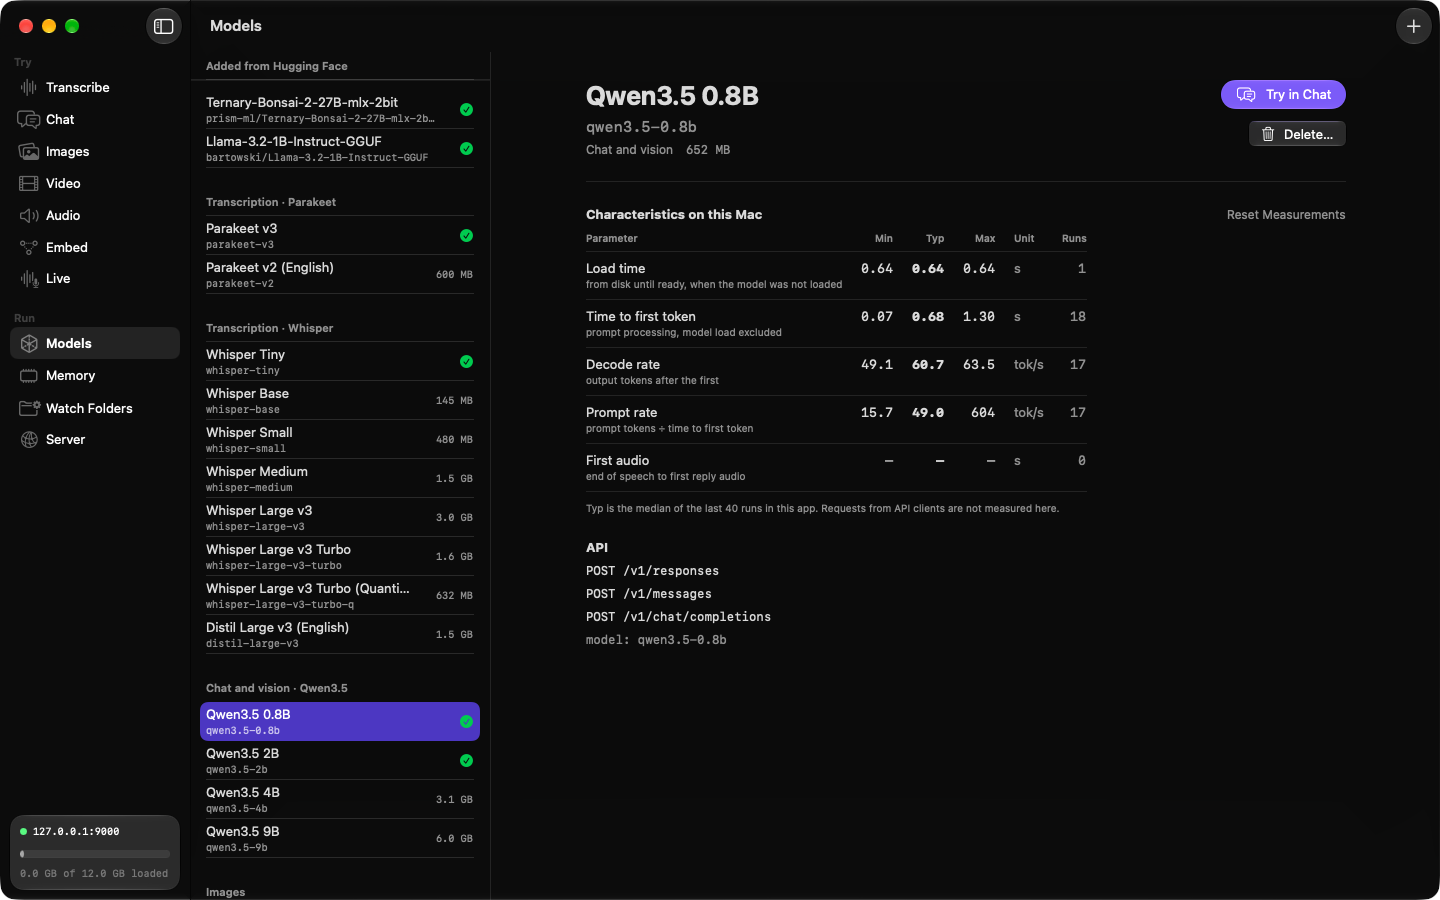
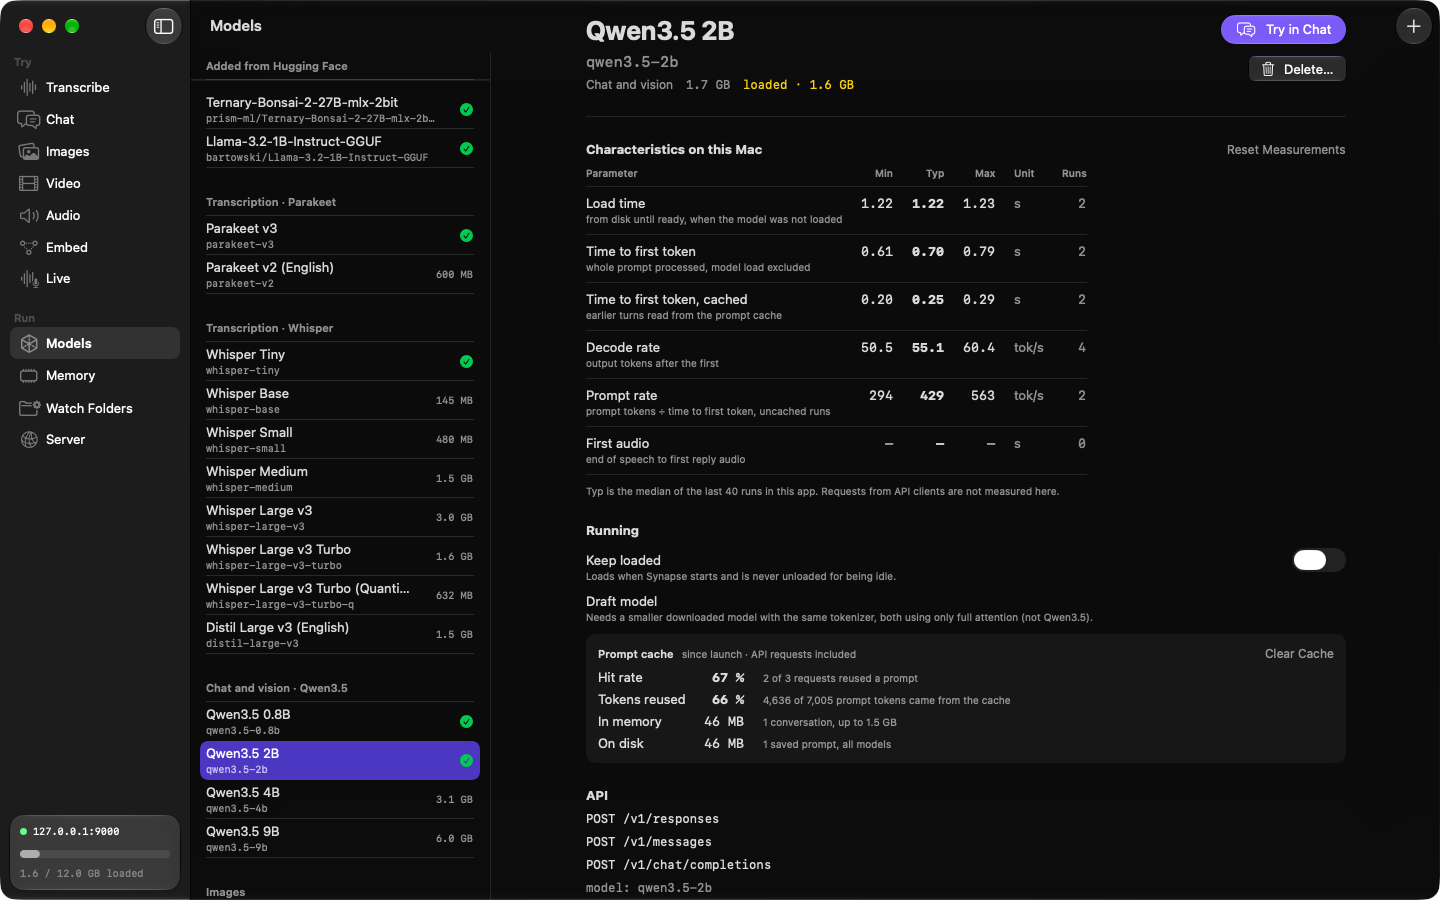
README screenshots for prompt caching, history and memory; Video shows saved clips without a model
New gallery row: Chat with its History list (follow-ups reading 428 of 464
tokens from the cache) and the Memory pane with per-model prompt caches and
prompts saved to disk. The Models shot now shows the Running section and
first token uncached (0.70 s) against cached (0.25 s) on Qwen3.5 2B. All
three are real runs on the 16 GB Mac mini.

The Video pane hid saved clips behind "No video models" when no video model
was downloaded; it now shows them. README, TODO and the docs say mlx-vlm's
prefix cache is on only with 32 GB or more.

DEBUG capture arguments: several prompts in -autoSendPrompt (" || "),
-datasheetScrollTo, and -openFirstHistory reopening the list; -deleteFirstHistory
now deletes once per launch.

Checked in the app this round: Audio, Embed, Transcribe, Video and Transform
save to history, come back after relaunch, and delete.

Claude-Session: https://claude.ai/code/session_01Uyg6u63u5LHD8ihTKJECWa

diff --git a/Synapse/Design/HistoryList.swift b/Synapse/Design/HistoryList.swift
@@ -21,12 +21,20 @@ struct HistoryButton: View {
                 guard UserDefaults.standard.string(forKey: "openHistory") == kind.rawValue else { return }
                 try? await Task.sleep(for: .seconds(1))
                 showing = true
+                // With -openFirstHistory the list opens the newest item and closes; show it again over the result.
+                guard UserDefaults.standard.bool(forKey: "openFirstHistory") else { return }
+                try? await Task.sleep(for: .seconds(2))
+                showing = true
             }
             #endif
     }
 }
 
 struct HistoryList: View {
+    #if DEBUG
+    @MainActor static var debugDeleted = false
+    @MainActor static var debugOpened = false
+    #endif
     let kind: HistoryKind
     let noun: String
     let open: (HistoryItem) -> Void
@@ -82,11 +90,14 @@ struct HistoryList: View {
             items = await state.history.list(kind)
             #if DEBUG
             // `-openFirstHistory YES` (with `-openHistory`) opens the newest item, to capture a restore.
-            if UserDefaults.standard.bool(forKey: "openFirstHistory"), let first = items.first { open(first) }
+            if UserDefaults.standard.bool(forKey: "openFirstHistory"), !Self.debugOpened, let first = items.first {
+                Self.debugOpened = true
+                open(first)
+            }
             // `-deleteFirstHistory YES` deletes the newest item the way the confirmed Delete does.
-            if UserDefaults.standard.bool(forKey: "deleteFirstHistory"), let first = items.first {
+            if UserDefaults.standard.bool(forKey: "deleteFirstHistory"), !Self.debugDeleted, let first = items.first {
+                Self.debugDeleted = true   // the launch argument stays set, so delete once per launch
                 state.deleteHistory([first.id], kind: kind)
-                UserDefaults.standard.set(false, forKey: "deleteFirstHistory")
             }
             #endif
         }

diff --git a/Synapse/Views/ModelsView.swift b/Synapse/Views/ModelsView.swift
@@ -37,8 +37,18 @@ struct ModelsView: View {
             .frame(width: 300)
             Divider()
             if let spec = selection.flatMap(Catalog.spec) {
-                ScrollView { Datasheet(spec: spec, openPane: openPane, confirmDelete: $confirmDelete).padding(28) }
-                    .frame(maxWidth: .infinity)
+                ScrollViewReader { proxy in
+                    ScrollView { Datasheet(spec: spec, openPane: openPane, confirmDelete: $confirmDelete).padding(28) }
+                        .frame(maxWidth: .infinity)
+                        #if DEBUG
+                        // `-datasheetScrollTo running` scrolls a datasheet to its Running section, for captures.
+                        .task(id: spec.id) {
+                            guard let id = UserDefaults.standard.string(forKey: "datasheetScrollTo") else { return }
+                            try? await Task.sleep(for: .seconds(1))
+                            proxy.scrollTo(id, anchor: .top)
+                        }
+                        #endif
+                }
             } else {
                 ContentUnavailableView("Select a model", systemImage: "cube.transparent").frame(maxWidth: .infinity)
             }
@@ -137,7 +147,7 @@ struct Datasheet: View {
             header
             Divider()
             if !metrics.isEmpty { characteristics }
-            if spec.isChat || spec.isImage, case .ready = state.modelStates[spec.id] { running }
+            if spec.isChat || spec.isImage, case .ready = state.modelStates[spec.id] { running.id("running") }
             VStack(alignment: .leading, spacing: 8) {
                 Text("API").font(.headline)
                 ForEach(api, id: \.self) { Text($0).font(.mono(.callout)).textSelection(.enabled) }

diff --git a/Synapse/Views/ChatView.swift b/Synapse/Views/ChatView.swift
@@ -100,7 +100,11 @@ struct ChatView: View {
             guard let p = UserDefaults.standard.string(forKey: "autoSendPrompt"), !p.isEmpty, lines.isEmpty, spec != nil else { return }
             // `-autoAttach <path>` attaches a file first, so video and image runs can be captured too.
             if let path = UserDefaults.standard.string(forKey: "autoAttach") { add([URL(fileURLWithPath: path)]) }
-            input = p; send()
+            // Several prompts separated by " || " are sent one after another, each once the previous reply ends.
+            for (i, q) in p.components(separatedBy: " || ").enumerated() {
+                if i > 0 { while generating { try? await Task.sleep(for: .milliseconds(200)) } }
+                input = q; send()
+            }
         }
         #endif
         .onChange(of: specs.map(\.id)) { pickModel() }

diff --git a/Synapse/Views/VideoView.swift b/Synapse/Views/VideoView.swift
@@ -39,7 +39,7 @@ struct VideoView: View {
         Group {
             if mode == .transform {
                 VideoTransformView()
-            } else if specs.isEmpty {
+            } else if specs.isEmpty, saved.isEmpty {
                 ContentUnavailableView("No video models", systemImage: "film",
                                        description: Text("Download LTX-2.3 Distilled in Models. On Macs under 64 GB it runs in low-memory mode (about 55 GB download)."))
             } else {

diff --git a/README.md b/README.md
@@ -33,7 +33,7 @@ The same models answer on `http://127.0.0.1:9000` in the shapes of the **OpenAI*
 - **Every modality in one place.** Text, images, video and audio in. Text, speech, music, images and video out. Full-duplex voice models that listen while they talk.
 - **A real Mac app, not a web wrapper.** SwiftUI and Liquid Glass, with a live readout on every pane: time to first token, tokens per second, memory, and the exact API call that does the same thing.
 - **Any model from Hugging Face.** Paste a repo name. Synapse checks it, tells you how it would run it, and then runs it in-process on MLX, through mlx-vlm, or as a GGUF on a bundled llama.cpp.
-- **Fast follow-up turns.** A prompt cache reuses the conversation so far, on every engine, so turn two of a long chat or agent session starts in a tenth of the time. Long prompts are saved to disk and stay warm across restarts.
+- **Fast follow-up turns.** A prompt cache reuses the conversation so far, so turn two of a long chat or agent session starts in a tenth of the time. Long prompts are saved to disk and stay warm across restarts.
 - **Built for a laptop's memory.** A memory budget, one GPU user at a time, idle unloading, and optional vOOM paging for models larger than RAM. Every screenshot here was taken on a 16 GB M4 Mac mini.
 
 ## See it work
@@ -58,8 +58,12 @@ Every screenshot below is a real run on the 16 GB Mac mini.
     <td><img src="docs/screenshots/live.png" alt="Live: voice call settings with hearing, thinking and speaking models"><br><b>Talk to it.</b> Live captions, translation and voice calls (with the camera, if you like) over the OpenAI Realtime protocol. Pick how it hears, thinks and speaks.</td>
   </tr>
   <tr>
-    <td><img src="docs/screenshots/models.png" alt="Models: the catalog, with measured load time, first-token time and decode rate on this Mac"><br><b>Know what you're running.</b> Every model shows what it costs on <i>your</i> Mac: load time, first token, decode rate, memory.</td>
+    <td><img src="docs/screenshots/models.png" alt="Models: Qwen3.5 2B's datasheet, with first token at 0.70 s uncached and 0.25 s from the prompt cache, and the cache's hit rate"><br><b>Know what you're running.</b> Every model shows what it costs on <i>your</i> Mac: load time, first token with and without the prompt cache, decode rate, memory, and how much of every request the cache answered.</td>
     <td><img src="docs/screenshots/server.png" alt="Server: address, LAN switch, API key and the list of routes"><br><b>Serve your network.</b> One switch opens the server to your LAN behind an API key, with a ready-to-paste URL for each client.</td>
+  </tr>
+  <tr>
+    <td><img src="docs/screenshots/history.png" alt="Chat: a long project brief and two follow-up questions, with the History list of earlier chats open"><br><b>Pick up where you left off.</b> Chats, images, clips, calls and transcripts are kept across launches, ready to reopen or delete. Here the follow-ups read 428 of 464 prompt tokens from the cache.</td>
+    <td><img src="docs/screenshots/memory.png" alt="Memory: two Qwen3.5 models loaded with their prompt caches, and two long prompts saved to disk"><br><b>See where the memory goes.</b> Measured memory for every loaded model, its prompt cache, and the long prompts saved to disk so they stay warm after a restart.</td>
   </tr>
 </table>
 
@@ -204,7 +208,7 @@ print(r.output_text)
 
 **Prompt cache.** Caching is automatic; there is nothing to send. Each chat model keeps the attention state of recent conversations, so a request that starts with an earlier conversation only reads its new part:
 - **In-process MLX models.** Synapse saves the state where the history ends and the generation prompt begins. Every follow-up turn starts with exactly those tokens, so reuse works even on Qwen3.5, whose recurrent layers cannot be rewound.
-- **llama.cpp and mlx-vlm.** These use their own prefix caches (mlx-vlm's is turned on by Synapse).
+- **llama.cpp and mlx-vlm.** These use their own prefix caches. Synapse turns mlx-vlm's on only on Macs with 32 GB or more, because it refuses requests outright when free memory runs short.
 - **Disk.** Histories of 1,024 tokens or more are also saved to `<models>/cache` and survive unloads and restarts.
 - **Not cached.** Requests that carry images, video or audio.
 

diff --git a/TODO.md b/TODO.md
@@ -8,7 +8,7 @@ Make repeat requests fast and give clients the knobs the engines already have.
 
 - [x] Prompt cache, in-process MLX: checkpoints at the end of the history (before the generation prompt), so reuse works on Qwen3.5's unrewindable linear attention; Qwen's rope state travels with each. Verified on Qwen3.5 0.8B: replies identical to uncached; turn-2 time to first token 1.07 s → 0.11 s (2,309 of 2,334 tokens reused).
 - [x] Disk tier: histories ≥ 1,024 tokens saved under `<models>/cache`, rewritten only when a conversation grows by a third. Verified: after unload, turn 2 reuses 2,309 tokens from disk with identical output; across an app relaunch too.
-- [x] llama.cpp (slot cache, `--cache-ram`) and mlx-vlm (APC, turned on, retried once if it refuses for memory). Verified: GGUF Llama 3.2 1B reuses 1,684 of 1,697; Gemma 3n 1,996 of 2,017 (2.3 s → 0.11 s prefill), same reply as cold.
+- [x] llama.cpp (slot cache, `--cache-ram`) and mlx-vlm (APC, on only with 32 GB or more: under load on 16 GB it refused requests even after a retry). Verified: GGUF Llama 3.2 1B reuses 1,684 of 1,697; Gemma 3n 1,996 of 2,017 (2.3 s → 0.11 s prefill) when it was on, same reply as cold.
 - [x] Cached tokens in every API's usage (OpenAI SDK and Anthropic SDK checked: `verify-modalities.py --only cache`).
 - [x] KV precision Full/8-bit/4-bit on MLX, llama.cpp and mlx-vlm. Verified: 8-bit cached = uncached output; Qwen3.5 0.8B checkpoint 48 → 35 MB. TurboQuant left out (its cache has no `copy()`).
 - [x] Speculative decoding with a draft model, full-attention pairs only (mlx-swift-lm needs trimmable caches; Qwen3.5 has none and its 4-bit weights ship no MTP heads). Verified: Llama 3.2 3B + 1B draft, 50 → 69 tok/s over 3 alternating runs, identical text.
